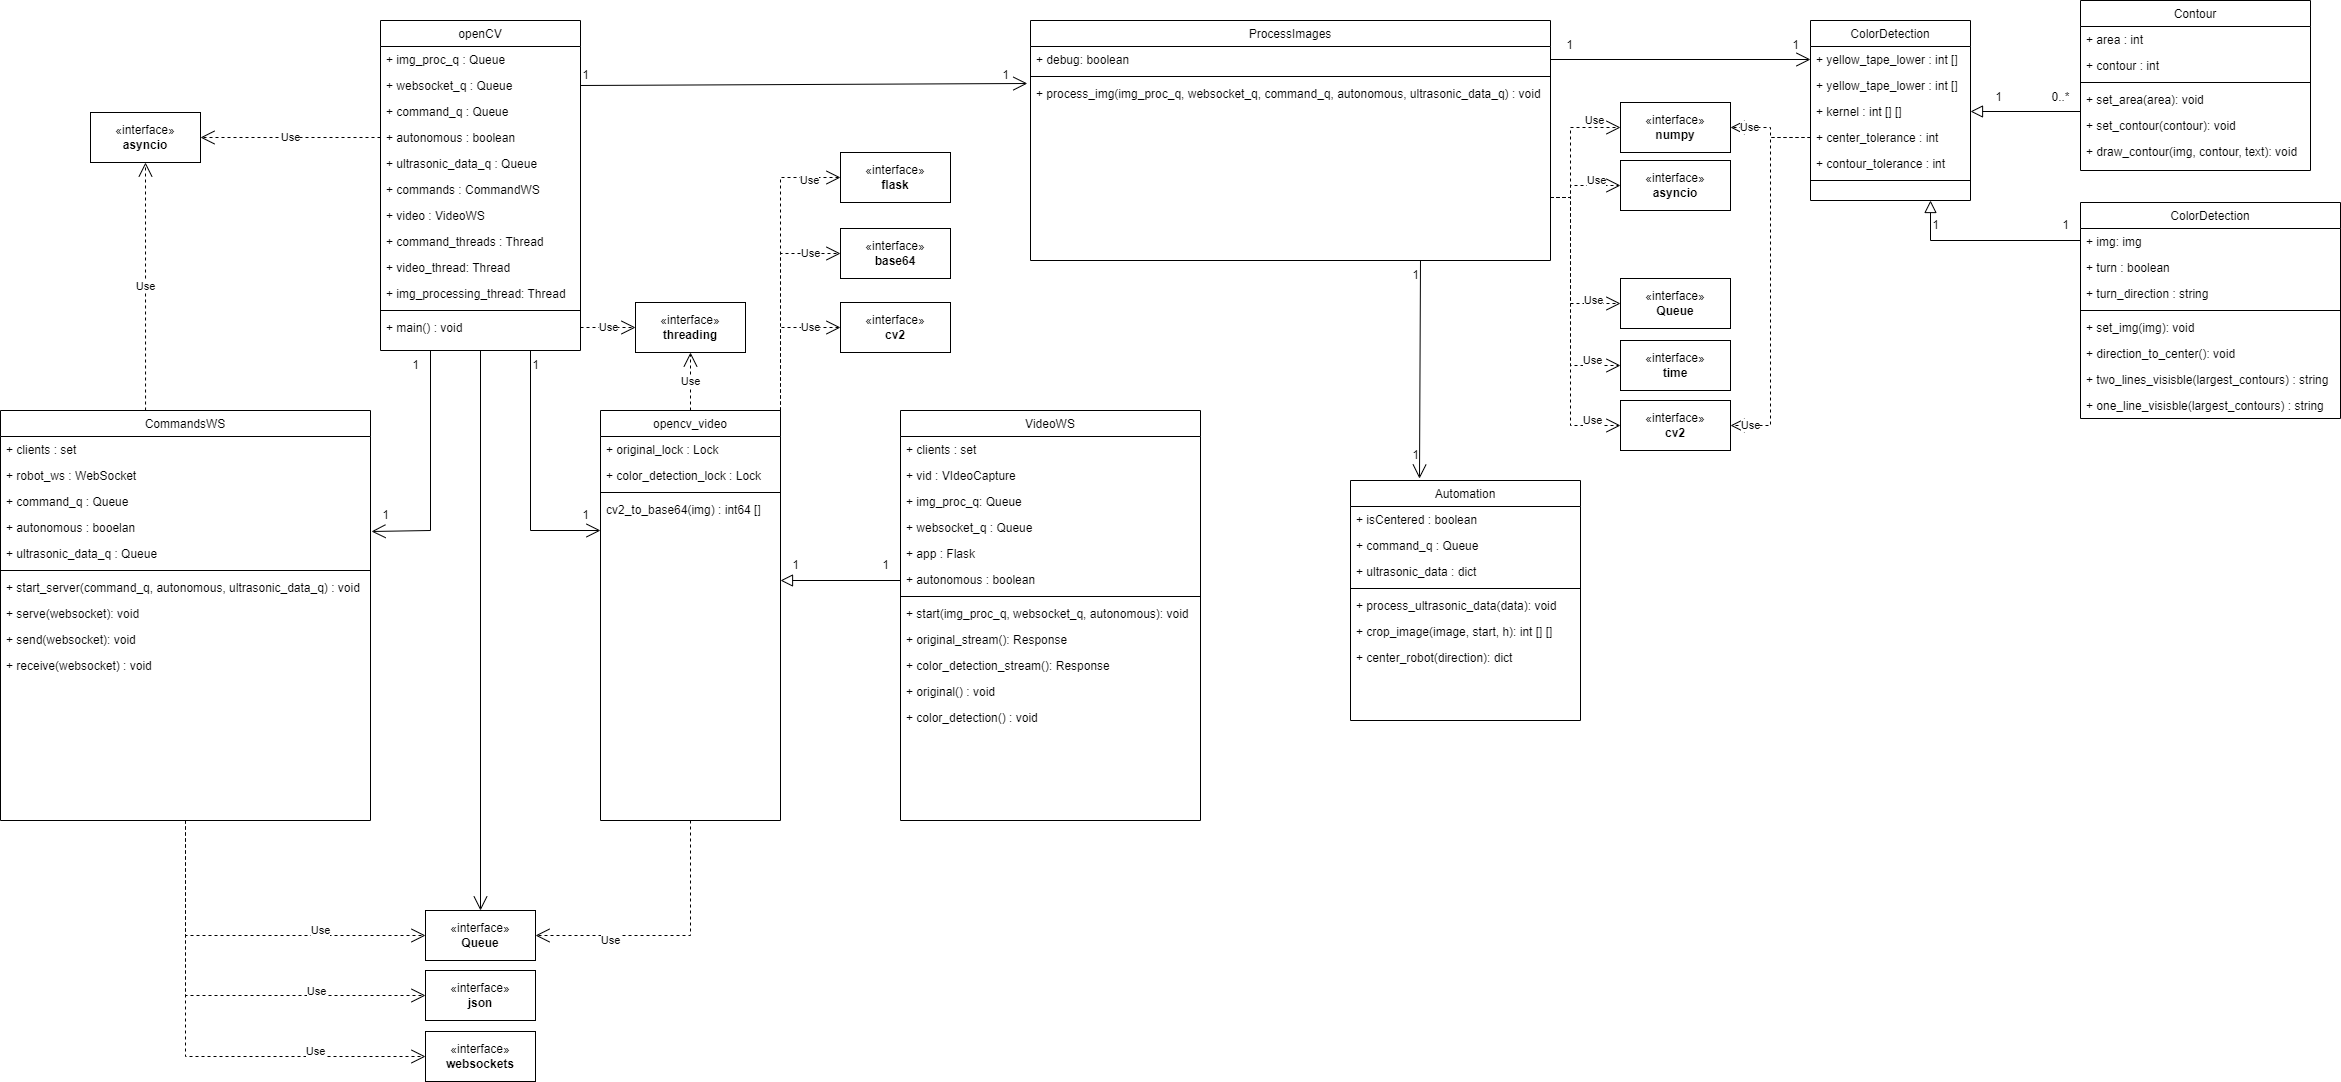
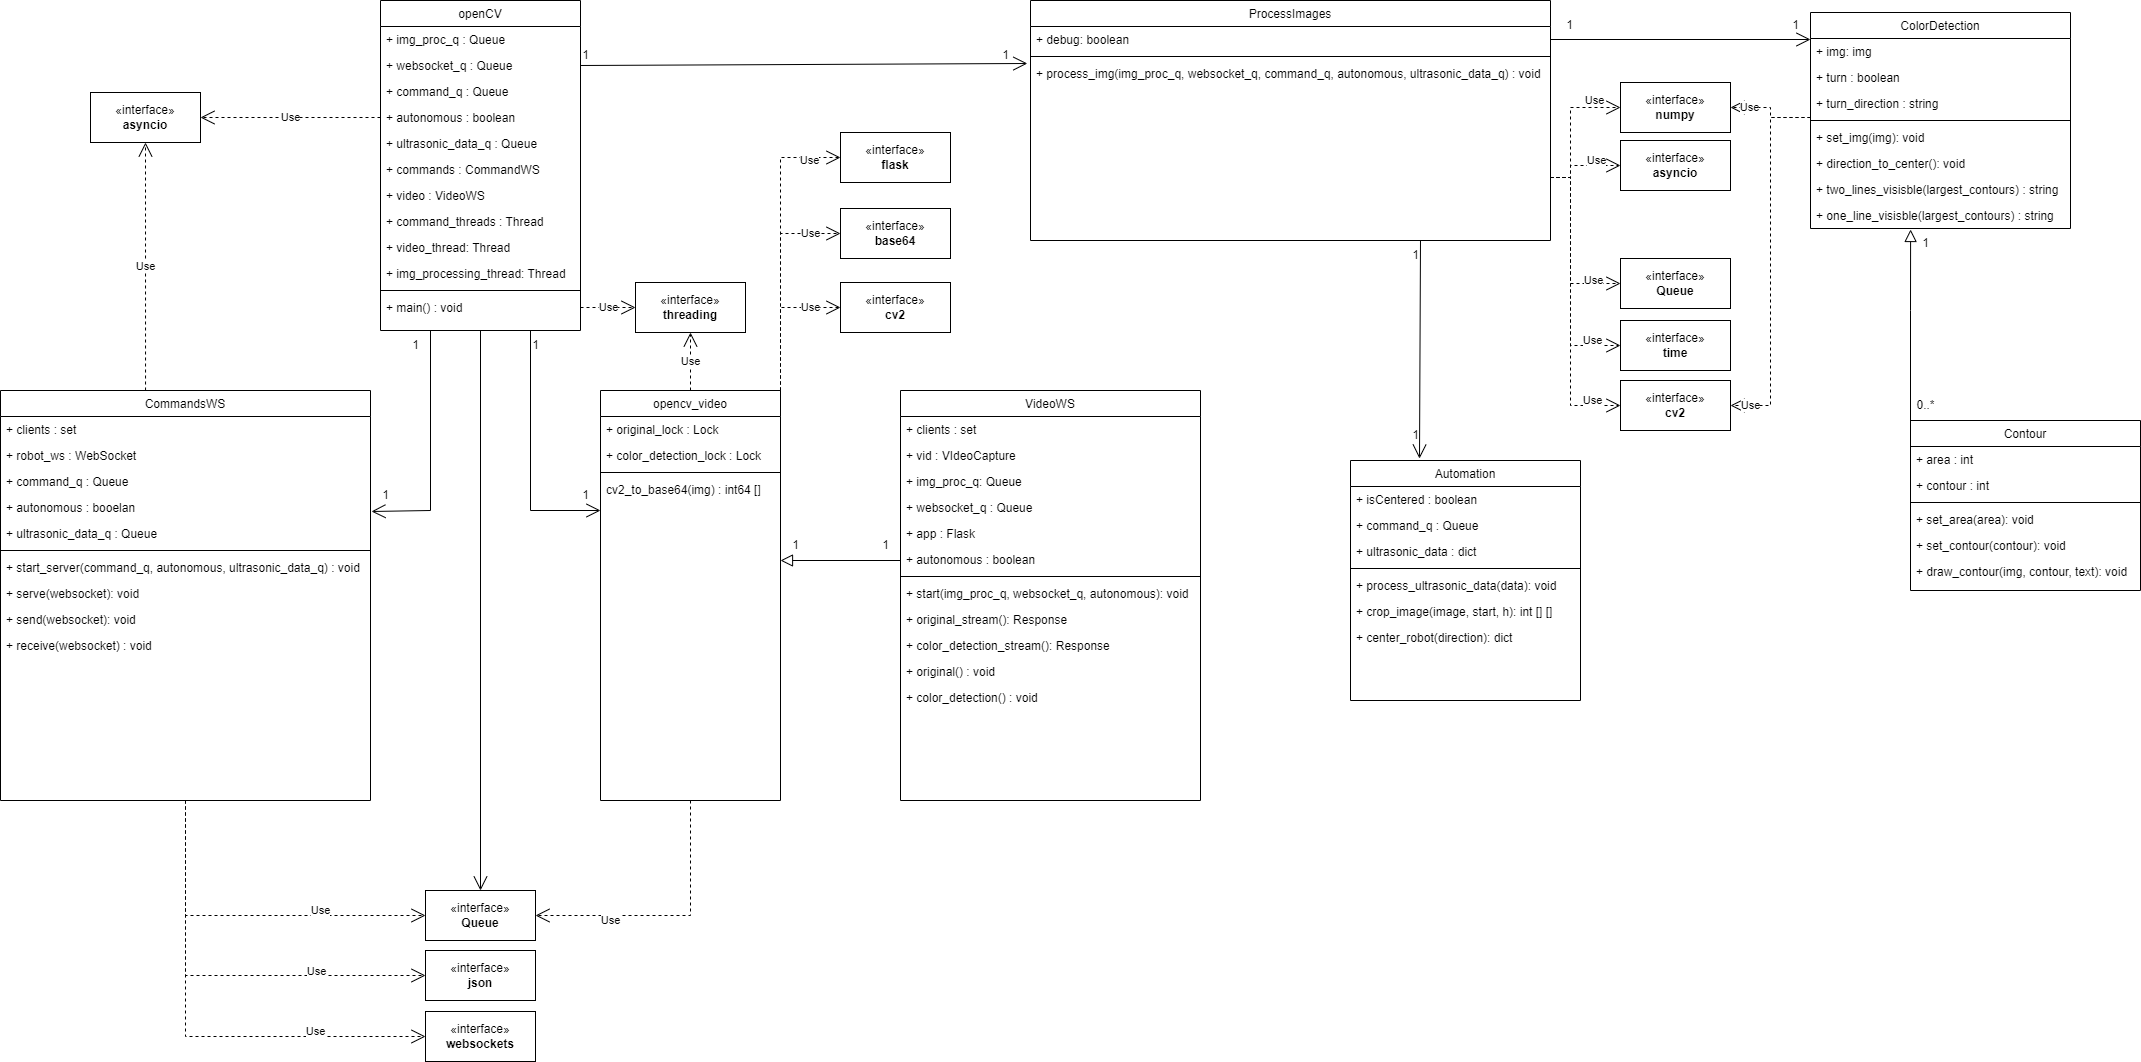
Overwrote color_detection with ColorDetection

diff --git a/documentation/docs/system-architecture/design.md b/documentation/docs/system-architecture/design.md
@@ -262,39 +262,6 @@ sidebar_position: 1
             * Return values: A dictionary item holding the direction, turn, and speed values to turn the robot. 
             * Exceptions Thrown: None
 
-* (color_detection) Class purpose: Identifies the color to search for in the image and creates contours around those objects.
-    * Data Fields: 
-        * yellow_tape_lower: 
-            * Type: A numpy array of integer values with the RGB values of the lower end for the color to detect.
-        * yellow_tape_upper:
-            * Type: A numpy array of integer values iwth the RGB values of the upper end for hte color to detect.
-        * kernel: 
-            * Type: A numpy matrix of 1's.
-        * center_tolerance: 
-            * Type: An integer value of the tolerance for centering.
-        * contour_tolerance:
-            * Type: An integer value of the tolerance for contour size.
-    * Methods:
-        * None
-
-* (Contour) Class purpose: An object over the image received from the robot depicting the area of the color defined.
-    * Data Fields:
-        * area:
-            * Type: An integer value of the area to select.
-        * contour:
-            * Type: A contour of the detected value.
-    * Methods:
-        * draw_contour(img, contour, text) : void
-            * This method draws the contour over the image received from the robot image queue.
-            * Parameters:
-                * img: The image in cv2 format received from the robot image queue.
-                * contour: The contour object to put over the image.
-                * text: A string value to put next to the contour placed over the image.
-            * Pre-conditions: None
-            * Post-conditions: None
-            * Return values: None
-            * Exceptions Thrown: None
-
 * (ColorDetection) Class purpose: Detects the color between the selected range defined in the color_detection class.
     * Data Fields:
         * img:
@@ -335,6 +302,26 @@ sidebar_position: 1
             * Post-conditions: Turn the robot to bring back two contours into the image.
             * Return value: A string of 'left', 'right', 'forward', or 'backward'.
             * Exceptions Thrown: None
+
+* (Contour) Class purpose: An object over the image received from the robot depicting the area of the color defined.
+    * Data Fields:
+        * area:
+            * Type: An integer value of the area to select.
+        * contour:
+            * Type: A contour of the detected value.
+    * Methods:
+        * draw_contour(img, contour, text) : void
+            * This method draws the contour over the image received from the robot image queue.
+            * Parameters:
+                * img: The image in cv2 format received from the robot image queue.
+                * contour: The contour object to put over the image.
+                * text: A string value to put next to the contour placed over the image.
+            * Pre-conditions: None
+            * Post-conditions: None
+            * Return values: None
+            * Exceptions Thrown: None
+
+
 
 ## Website Diagram ##
 ![](assets/Architecture_TREAD_BOT_WEBSITE.png)
